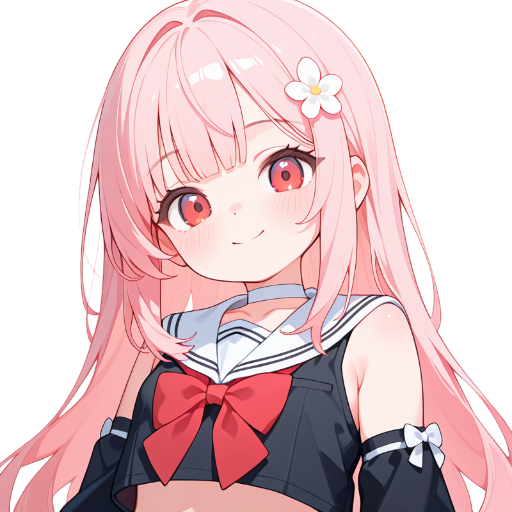
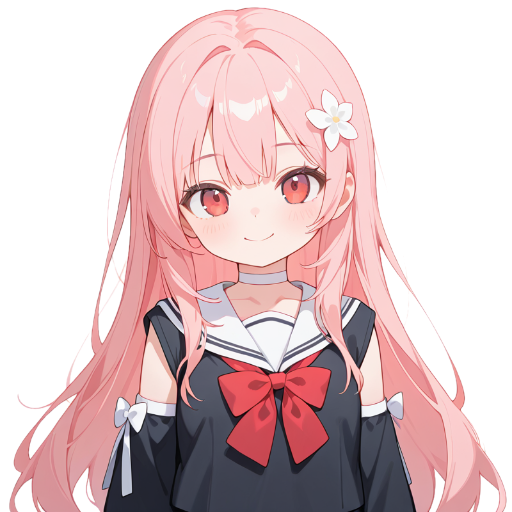
修改logo

diff --git a/docs/.vitepress/theme/custom.css b/docs/.vitepress/theme/custom.css
@@ -20,10 +20,6 @@
   backdrop-filter: blur(1rem);
 }
 
-.VPContent.is-home .VPHome .VPHero.VPHomeHero img.VPImage {
-  border-radius: 100%;
-}
-
 .algolia [command-dialog-mask] {
   background-color: rgb(0 0 0 / 0.5);
   backdrop-filter: blur(1rem);

diff --git a/docs/index.md b/docs/index.md
@@ -14,6 +14,6 @@ hero:
       text: "为什么不是油煎包 🤓"
       link: /notes/markdown/
   image:
-      src: /avatar.webp
+      src: /avatar_transparent.webp
       alt: FlapyPan
 ---
